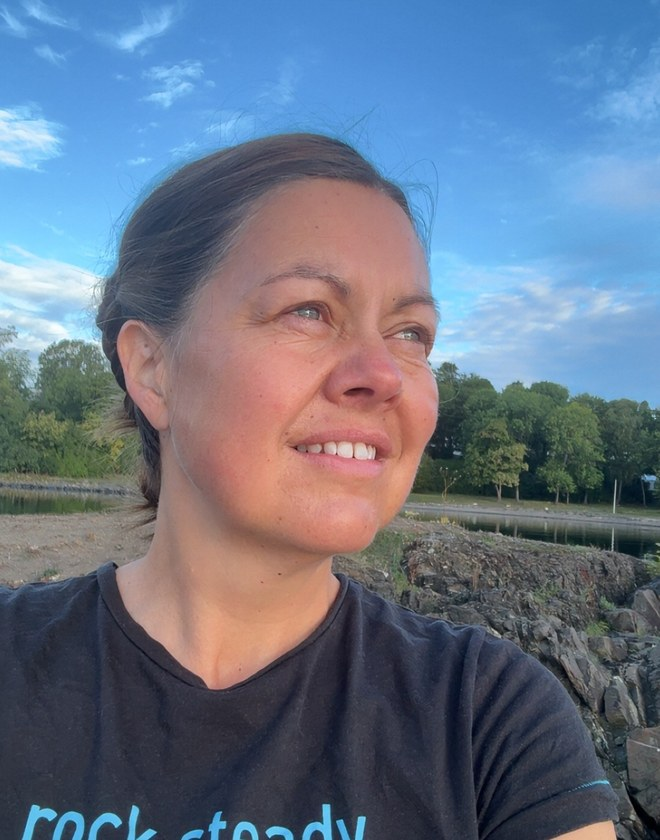
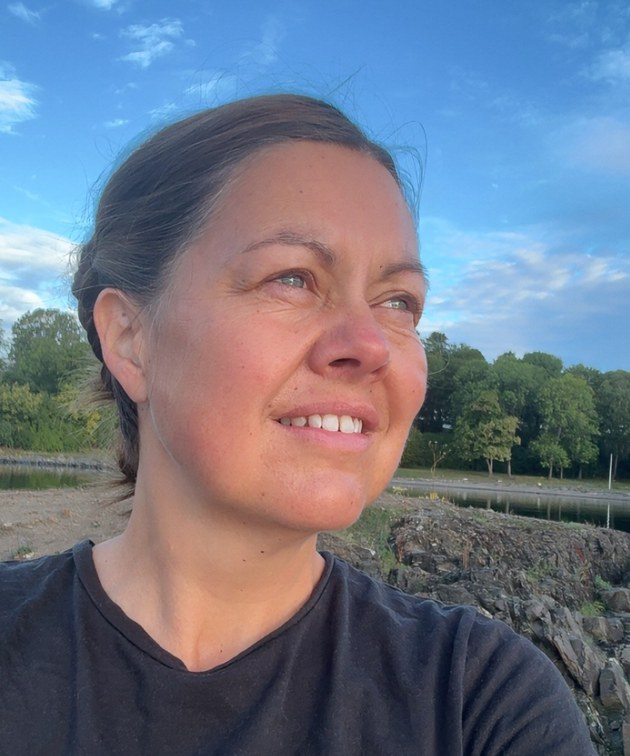
Crop Om meg photo tighter and shrink frame
Removes the visible t-shirt text at the bottom of the crop and
makes the frame a bit smaller (200x240 instead of 220x280).

Claude-Session: https://claude.ai/code/session_01LvGNxwwVVbphST7kPGmNca

diff --git a/index.html b/index.html
@@ -435,8 +435,8 @@
   .photo-placeholder,
   .profile-photo {
     flex: 0 0 auto;
-    width: 220px;
-    height: 280px;
+    width: 200px;
+    height: 240px;
     border-radius: 16px;
   }
 
